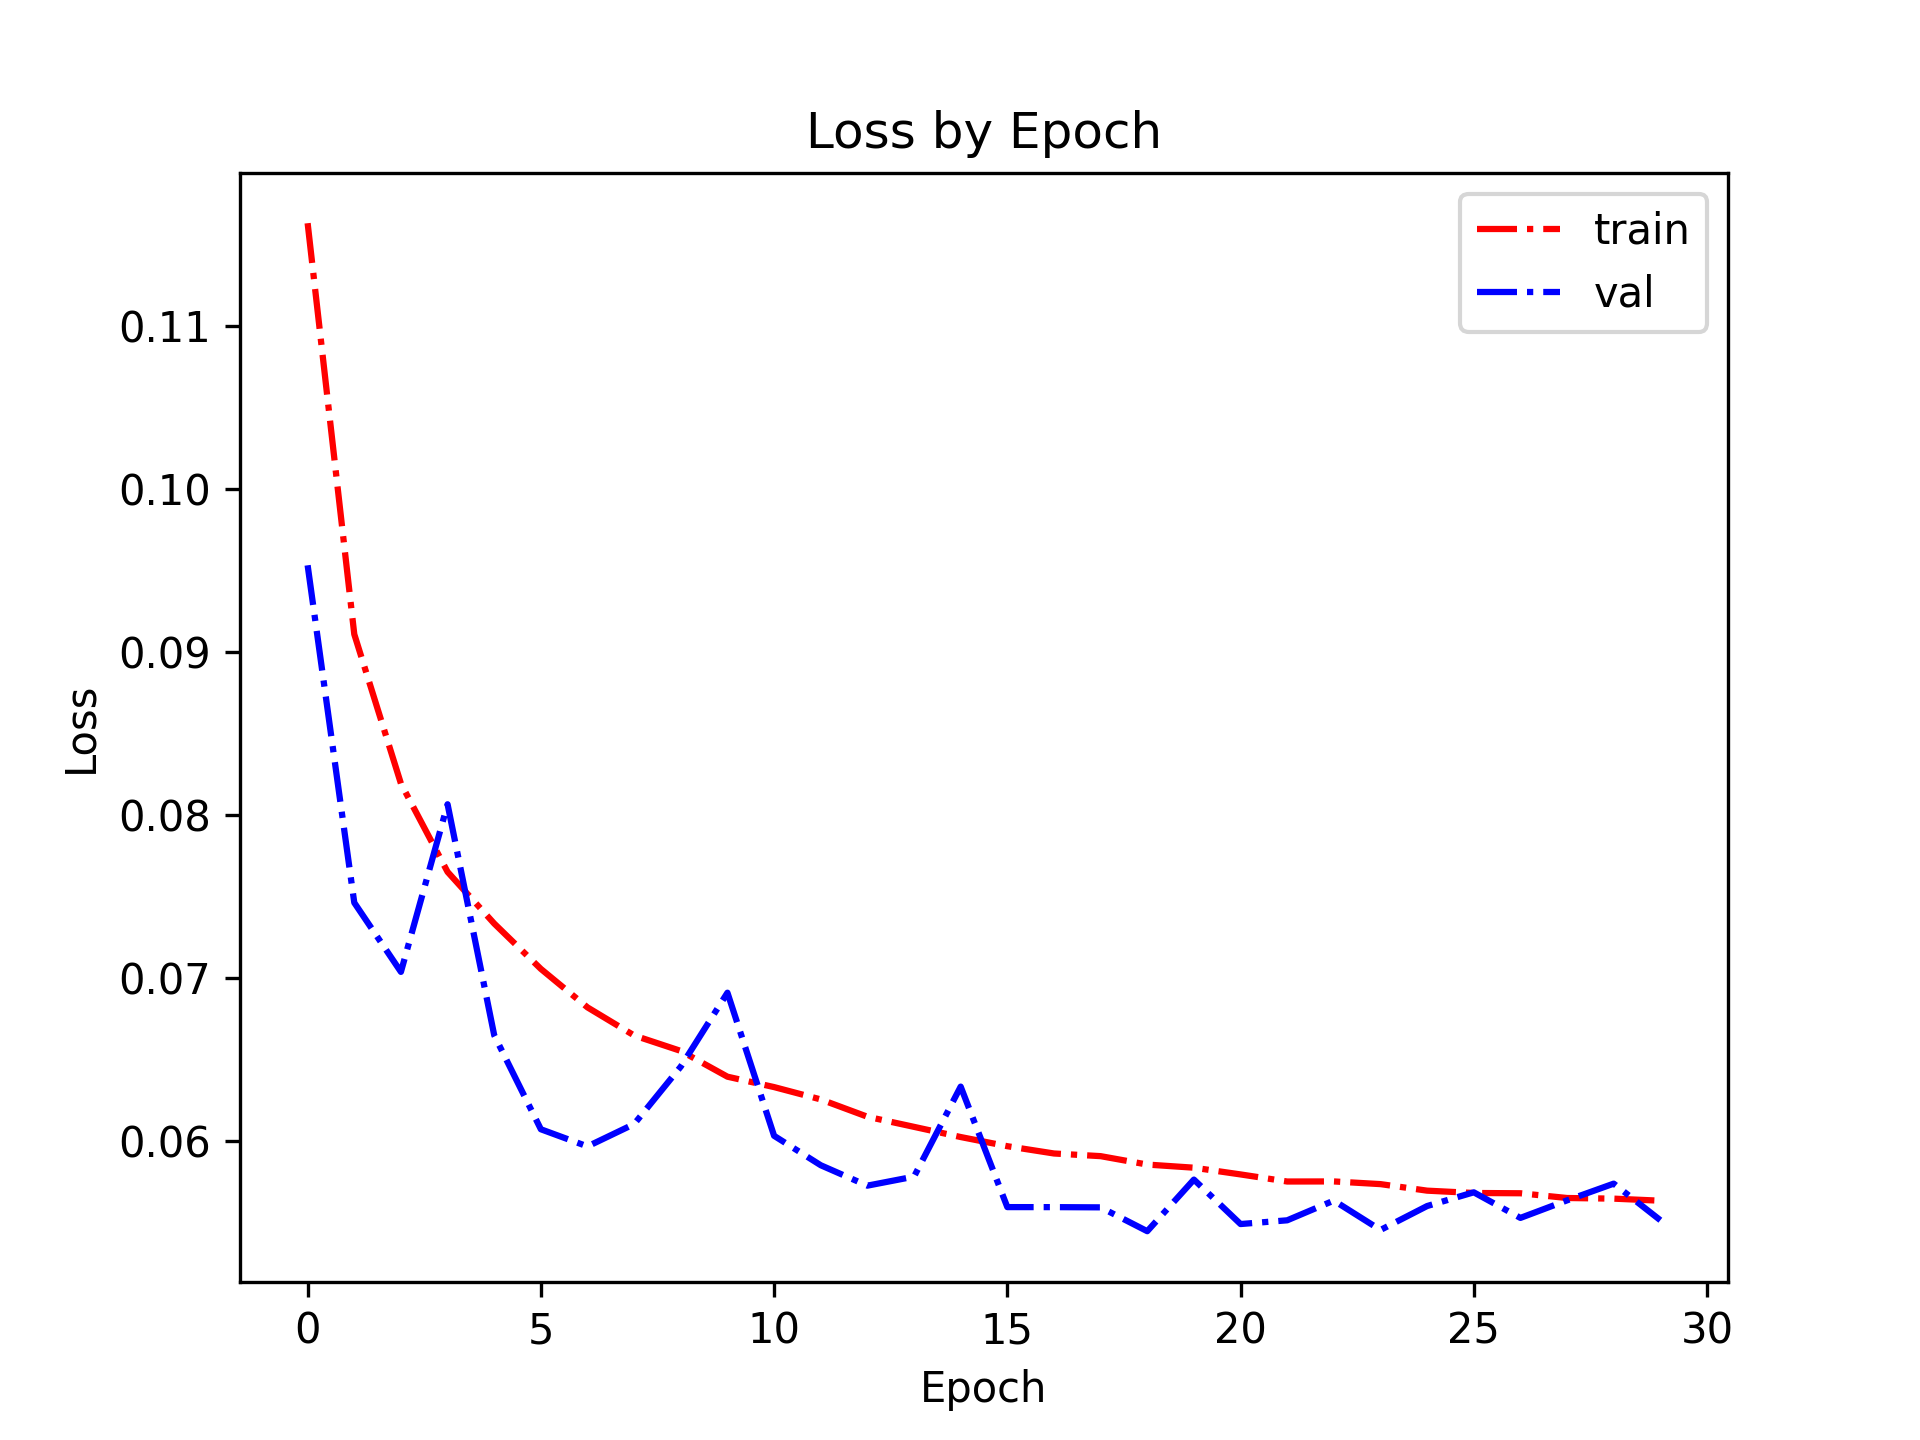
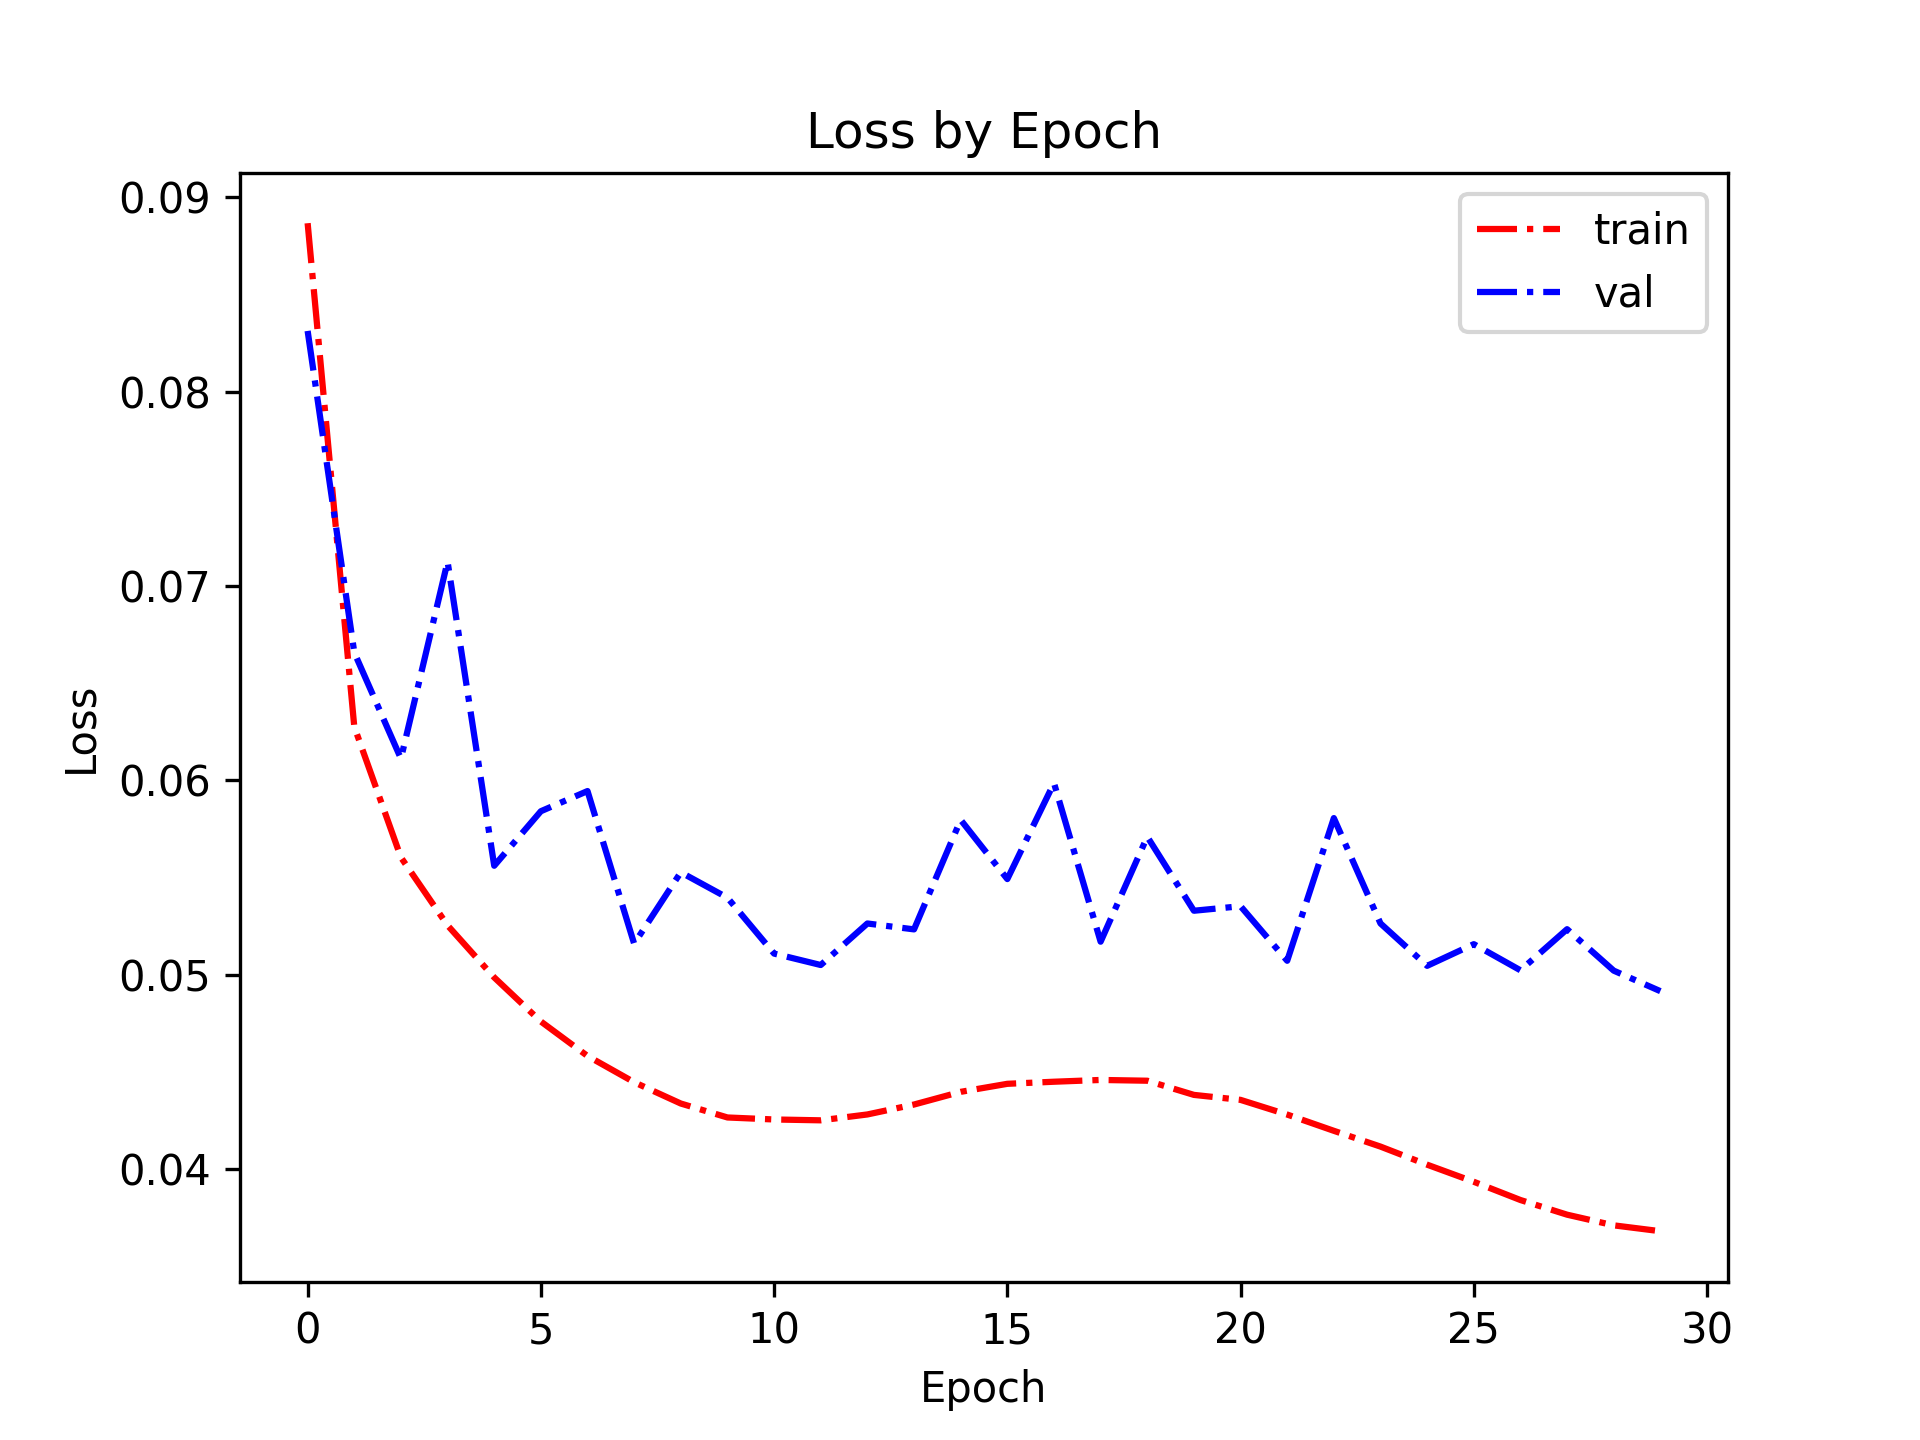
modified to have multiple train data path

diff --git a/FastMRI_challenge-2023_baby_unet/utils/data/.ipynb_checkpoints/load_data-checkpoint.py b/FastMRI_challenge-2023_baby_unet/utils/data/.ipynb_checkpoints/load_data-checkpoint.py
@@ -5,20 +5,30 @@ from torch.utils.data import Dataset, DataLoader
 from pathlib import Path
 
 class SliceData(Dataset):
-    def __init__(self, root, transform, input_key, target_key, forward=False):
+    def __init__(self, root1, root2=0, transform, input_key, target_key, forward=False):
         self.transform = transform
         self.input_key = input_key
         self.target_key = target_key
         self.forward = forward
-        self.examples = []
+        self.examples = [] 
         
-        files = list(Path(root).iterdir())
-        for fname in sorted(files):
+        files = list(Path(root1).iterdir())
+        files_2 = list(Path(root2).iterdir())
+        
+        for fname in sorted(files_1):
             num_slices = self._get_metadata(fname)
 
             self.examples += [
                 (fname, slice_ind) for slice_ind in range(num_slices)
             ]
+            
+        if root2 != 0
+            for fname in sorted(files_2):
+                num_slices = self._get_metadata(fname)
+
+                self.examples += [
+                    (fname, slice_ind) for slice_ind in range(num_slices)
+                ]
 
     def _get_metadata(self, fname):
         with h5py.File(fname, "r") as hf:
@@ -37,10 +47,18 @@ class SliceData(Dataset):
             else:
                 target = hf[self.target_key][dataslice]
             attrs = dict(hf.attrs)
-        return self.transform(input, target, attrs, fname.name, dataslice)
+        
+        """
+        returns input, target, maximum, fname, slice by __call__():
+        input = to_tensor(input)
+        target = to_tensor(target)
+        if isforward is true, set target, maximum to -1
+        """
+        return self.transform(input, target, attrs, fname.name, dataslice) 
+    
 
 
-def create_data_loaders(data_path, args, shuffle=True, isforward=False):
+def create_data_loaders(data_path_1, data_path_2, int path2_ind = 0, args, shuffle=True, isforward=False):
     if isforward == False:
         max_key_ = args.max_key
         target_key_ = args.target_key
@@ -48,7 +66,10 @@ def create_data_loaders(data_path, args, shuffle=True, isforward=False):
         max_key_ = -1
         target_key_ = -1
     data_storage = SliceData(
-        root=data_path,
+        root1=data_path_1,
+        root2=data_path_2,
+        root2_ind=path2_ind,
+        # initialize isforward, max_key_
         transform=DataTransform(isforward, max_key_),
         input_key=args.input_key,
         target_key=target_key_,

diff --git a/FastMRI_challenge-2023_baby_unet/utils/data/load_data.py b/FastMRI_challenge-2023_baby_unet/utils/data/load_data.py
@@ -5,20 +5,30 @@ from torch.utils.data import Dataset, DataLoader
 from pathlib import Path
 
 class SliceData(Dataset):
-    def __init__(self, root, transform, input_key, target_key, forward=False):
+    def __init__(self, root1, root2='init', transform, input_key, target_key, forward=False):
         self.transform = transform
         self.input_key = input_key
         self.target_key = target_key
         self.forward = forward
-        self.examples = []
+        self.examples = [] 
         
-        files = list(Path(root).iterdir())
-        for fname in sorted(files):
+        files = list(Path(root1).iterdir())
+        files_2 = list(Path(root2).iterdir())
+        
+        for fname in sorted(files_1):
             num_slices = self._get_metadata(fname)
 
             self.examples += [
                 (fname, slice_ind) for slice_ind in range(num_slices)
             ]
+            
+        if root2 != 'init'
+            for fname in sorted(files_2):
+                num_slices = self._get_metadata(fname)
+
+                self.examples += [
+                    (fname, slice_ind) for slice_ind in range(num_slices)
+                ]
 
     def _get_metadata(self, fname):
         with h5py.File(fname, "r") as hf:
@@ -37,10 +47,18 @@ class SliceData(Dataset):
             else:
                 target = hf[self.target_key][dataslice]
             attrs = dict(hf.attrs)
-        return self.transform(input, target, attrs, fname.name, dataslice)
+        
+        """
+        returns input, target, maximum, fname, slice by __call__():
+        input = to_tensor(input)
+        target = to_tensor(target)
+        if isforward is true, set target, maximum to -1
+        """
+        return self.transform(input, target, attrs, fname.name, dataslice) 
+    
 
 
-def create_data_loaders(data_path, args, shuffle=True, isforward=False):
+def create_data_loaders(data_path_1, data_path_2, args, shuffle=True, isforward=False):
     if isforward == False:
         max_key_ = args.max_key
         target_key_ = args.target_key
@@ -48,7 +66,9 @@ def create_data_loaders(data_path, args, shuffle=True, isforward=False):
         max_key_ = -1
         target_key_ = -1
     data_storage = SliceData(
-        root=data_path,
+        root1=data_path_1,
+        root2=data_path_2,
+        # initialize isforward, max_key_
         transform=DataTransform(isforward, max_key_),
         input_key=args.input_key,
         target_key=target_key_,

diff --git a/FastMRI_challenge-2023_baby_unet/utils/learning/.ipynb_checkpoints/train_part-checkpoint.py b/FastMRI_challenge-2023_baby_unet/utils/learning/.ipynb_checkpoints/train_part-checkpoint.py
@@ -24,7 +24,13 @@ def train_epoch(args, epoch, model, data_loader, optimizer, loss_type):
         maximum = maximum.cuda(non_blocking=True)
 
         output = model(input)
-        loss = loss_type(output, target, maximum)
+        
+        # Mask output and target, when epoch exceeds 30
+        if epoch>30:
+            loss = loss_type(output, target, maximum, masked=True)
+        else:
+            loss = loss_type(output, target, maximum, masked=False)
+            
         optimizer.zero_grad()
         loss.backward()
         optimizer.step()
@@ -103,15 +109,15 @@ def train(args):
     model.to(device=device)
     loss_type = SSIMLoss().to(device=device)
     optimizer = torch.optim.Adam(model.parameters(), args.lr)
-    scheduler = torch.optim.lr_scheduler.LambdaLR(optimizer = optimizer, lr_lambda = lambda epoch: 0.9 ** epoch )
+    #scheduler = torch.optim.lr_scheduler.LambdaLR(optimizer = optimizer, lr_lambda = lambda epoch: 0.9 ** epoch )
     
-    #scheduler = torch.optim.lr_scheduler.CosineAnnealingLR(optimizer, T_max=10, eta_min=0)
+    scheduler = torch.optim.lr_scheduler.CosineAnnealingLR(optimizer, T_max=10, eta_min=0)
 
     best_val_loss = 1.
     start_epoch = 0
 
     
-    train_loader = create_data_loaders(data_path = args.data_path_train, args = args, shuffle=True)
+    train_loader = create_data_loaders(data_path_1 = args.data_path_train, data_path_2 = args.data_path_phase, args = args, shuffle=True)
     val_loader = create_data_loaders(data_path = args.data_path_val, args = args)
     train_loss_list = []
     val_loss_list = []

diff --git a/FastMRI_challenge-2023_baby_unet/utils/learning/train_part.py b/FastMRI_challenge-2023_baby_unet/utils/learning/train_part.py
@@ -24,7 +24,13 @@ def train_epoch(args, epoch, model, data_loader, optimizer, loss_type):
         maximum = maximum.cuda(non_blocking=True)
 
         output = model(input)
-        loss = loss_type(output, target, maximum)
+        
+        # Mask output and target, when epoch exceeds 30
+        if epoch>30:
+            loss = loss_type(output, target, maximum, masked=True)
+        else:
+            loss = loss_type(output, target, maximum, masked=False)
+            
         optimizer.zero_grad()
         loss.backward()
         optimizer.step()
@@ -103,15 +109,15 @@ def train(args):
     model.to(device=device)
     loss_type = SSIMLoss().to(device=device)
     optimizer = torch.optim.Adam(model.parameters(), args.lr)
-    scheduler = torch.optim.lr_scheduler.LambdaLR(optimizer = optimizer, lr_lambda = lambda epoch: 0.9 ** epoch )
+    #scheduler = torch.optim.lr_scheduler.LambdaLR(optimizer = optimizer, lr_lambda = lambda epoch: 0.9 ** epoch )
     
-    #scheduler = torch.optim.lr_scheduler.CosineAnnealingLR(optimizer, T_max=10, eta_min=0)
+    scheduler = torch.optim.lr_scheduler.CosineAnnealingLR(optimizer, T_max=10, eta_min=0)
 
     best_val_loss = 1.
     start_epoch = 0
 
     
-    train_loader = create_data_loaders(data_path = args.data_path_train, args = args, shuffle=True)
+    train_loader = create_data_loaders(data_path_1 = args.data_path_train, data_path_2 = args.data_path_phase, args = args, shuffle=True)
     val_loader = create_data_loaders(data_path = args.data_path_val, args = args)
     train_loss_list = []
     val_loss_list = []

diff --git a/FastMRI_challenge-2023_baby_unet/utils/common/.ipynb_checkpoints/loss_function-checkpoint.py b/FastMRI_challenge-2023_baby_unet/utils/common/.ipynb_checkpoints/loss_function-checkpoint.py
@@ -8,13 +8,14 @@ import torch
 import torch.nn as nn
 import torch.nn.functional as F
 
+import matplotlib.pyplot as plt
 
 class SSIMLoss(nn.Module):
     """
     SSIM loss module.
     """
 
-    def __init__(self, win_size: int = 7, k1: float = 0.01, k2: float = 0.03):
+    def __init__(self, win_size: int = 11, k1: float = 0.01, k2: float = 0.03):
         """
         Args:
             win_size: Window size for SSIM calculation.
@@ -28,9 +29,21 @@ class SSIMLoss(nn.Module):
         NP = win_size ** 2
         self.cov_norm = NP / (NP - 1)
 
-    def forward(self, X, Y, data_range):
+    def forward(self, X, Y, data_range, masked=False):
         X = X.unsqueeze(1)
         Y = Y.unsqueeze(1)
+            
+        if masked:
+            mask = torch.zeros_like(X)  # Match size to X and Y
+            mask[Y > 5e-5] = 1
+            kernel = torch.ones(1, 1, 3, 3, device=Y.device)
+            mask = F.conv2d(mask, kernel, padding=1)
+            mask = F.conv2d(mask, kernel, padding=14)
+            mask = mask[:, :, :X.size(2), :X.size(3)]  # Crop to match size of X and Y
+            
+            X = mask * X
+            Y = mask * Y
+            
         data_range = data_range[:, None, None, None]
         C1 = (self.k1 * data_range) ** 2
         C2 = (self.k2 * data_range) ** 2
@@ -50,5 +63,6 @@ class SSIMLoss(nn.Module):
         )
         D = B1 * B2
         S = (A1 * A2) / D
+        
 
         return 1 - S.mean()

diff --git a/FastMRI_challenge-2023_baby_unet/utils/common/loss_function.py b/FastMRI_challenge-2023_baby_unet/utils/common/loss_function.py
@@ -8,13 +8,14 @@ import torch
 import torch.nn as nn
 import torch.nn.functional as F
 
+import matplotlib.pyplot as plt
 
 class SSIMLoss(nn.Module):
     """
     SSIM loss module.
     """
 
-    def __init__(self, win_size: int = 7, k1: float = 0.01, k2: float = 0.03):
+    def __init__(self, win_size: int = 11, k1: float = 0.01, k2: float = 0.03):
         """
         Args:
             win_size: Window size for SSIM calculation.
@@ -28,9 +29,21 @@ class SSIMLoss(nn.Module):
         NP = win_size ** 2
         self.cov_norm = NP / (NP - 1)
 
-    def forward(self, X, Y, data_range):
+    def forward(self, X, Y, data_range, masked=False):
         X = X.unsqueeze(1)
         Y = Y.unsqueeze(1)
+            
+        if masked:
+            mask = torch.zeros_like(X)  # Match size to X and Y
+            mask[Y > 5e-5] = 1
+            kernel = torch.ones(1, 1, 3, 3, device=Y.device)
+            mask = F.conv2d(mask, kernel, padding=1)
+            mask = F.conv2d(mask, kernel, padding=14)
+            mask = mask[:, :, :X.size(2), :X.size(3)]  # Crop to match size of X and Y
+            
+            X = mask * X
+            Y = mask * Y
+            
         data_range = data_range[:, None, None, None]
         C1 = (self.k1 * data_range) ** 2
         C2 = (self.k2 * data_range) ** 2
@@ -50,5 +63,6 @@ class SSIMLoss(nn.Module):
         )
         D = B1 * B2
         S = (A1 * A2) / D
+        
 
         return 1 - S.mean()

diff --git a/FastMRI_challenge-2023_baby_unet/train.py b/FastMRI_challenge-2023_baby_unet/train.py
@@ -27,7 +27,8 @@ def parse():
     parser.add_argument('--target-key', type=str, default='image_label', help='Name of target key')
     parser.add_argument('--max-key', type=str, default='max', help='Name of max key in attributes')
     parser.add_argument('--seed', type=int, default=430, help='Fix random seed')
-    parser.add_argument('-p', '--drop-prob', type=float, default = 0.0, help='Dropout probability' )
+    parser.add_argument('-p', '--drop-prob', type=float, default = 0.0, help='Dropout probability')
+    parser.add_argument('--data-path-phase', type=Path, default='LostButFound/Datastorage/', help='Directory of phase train data')
 
     args = parser.parse_args()
     return args
